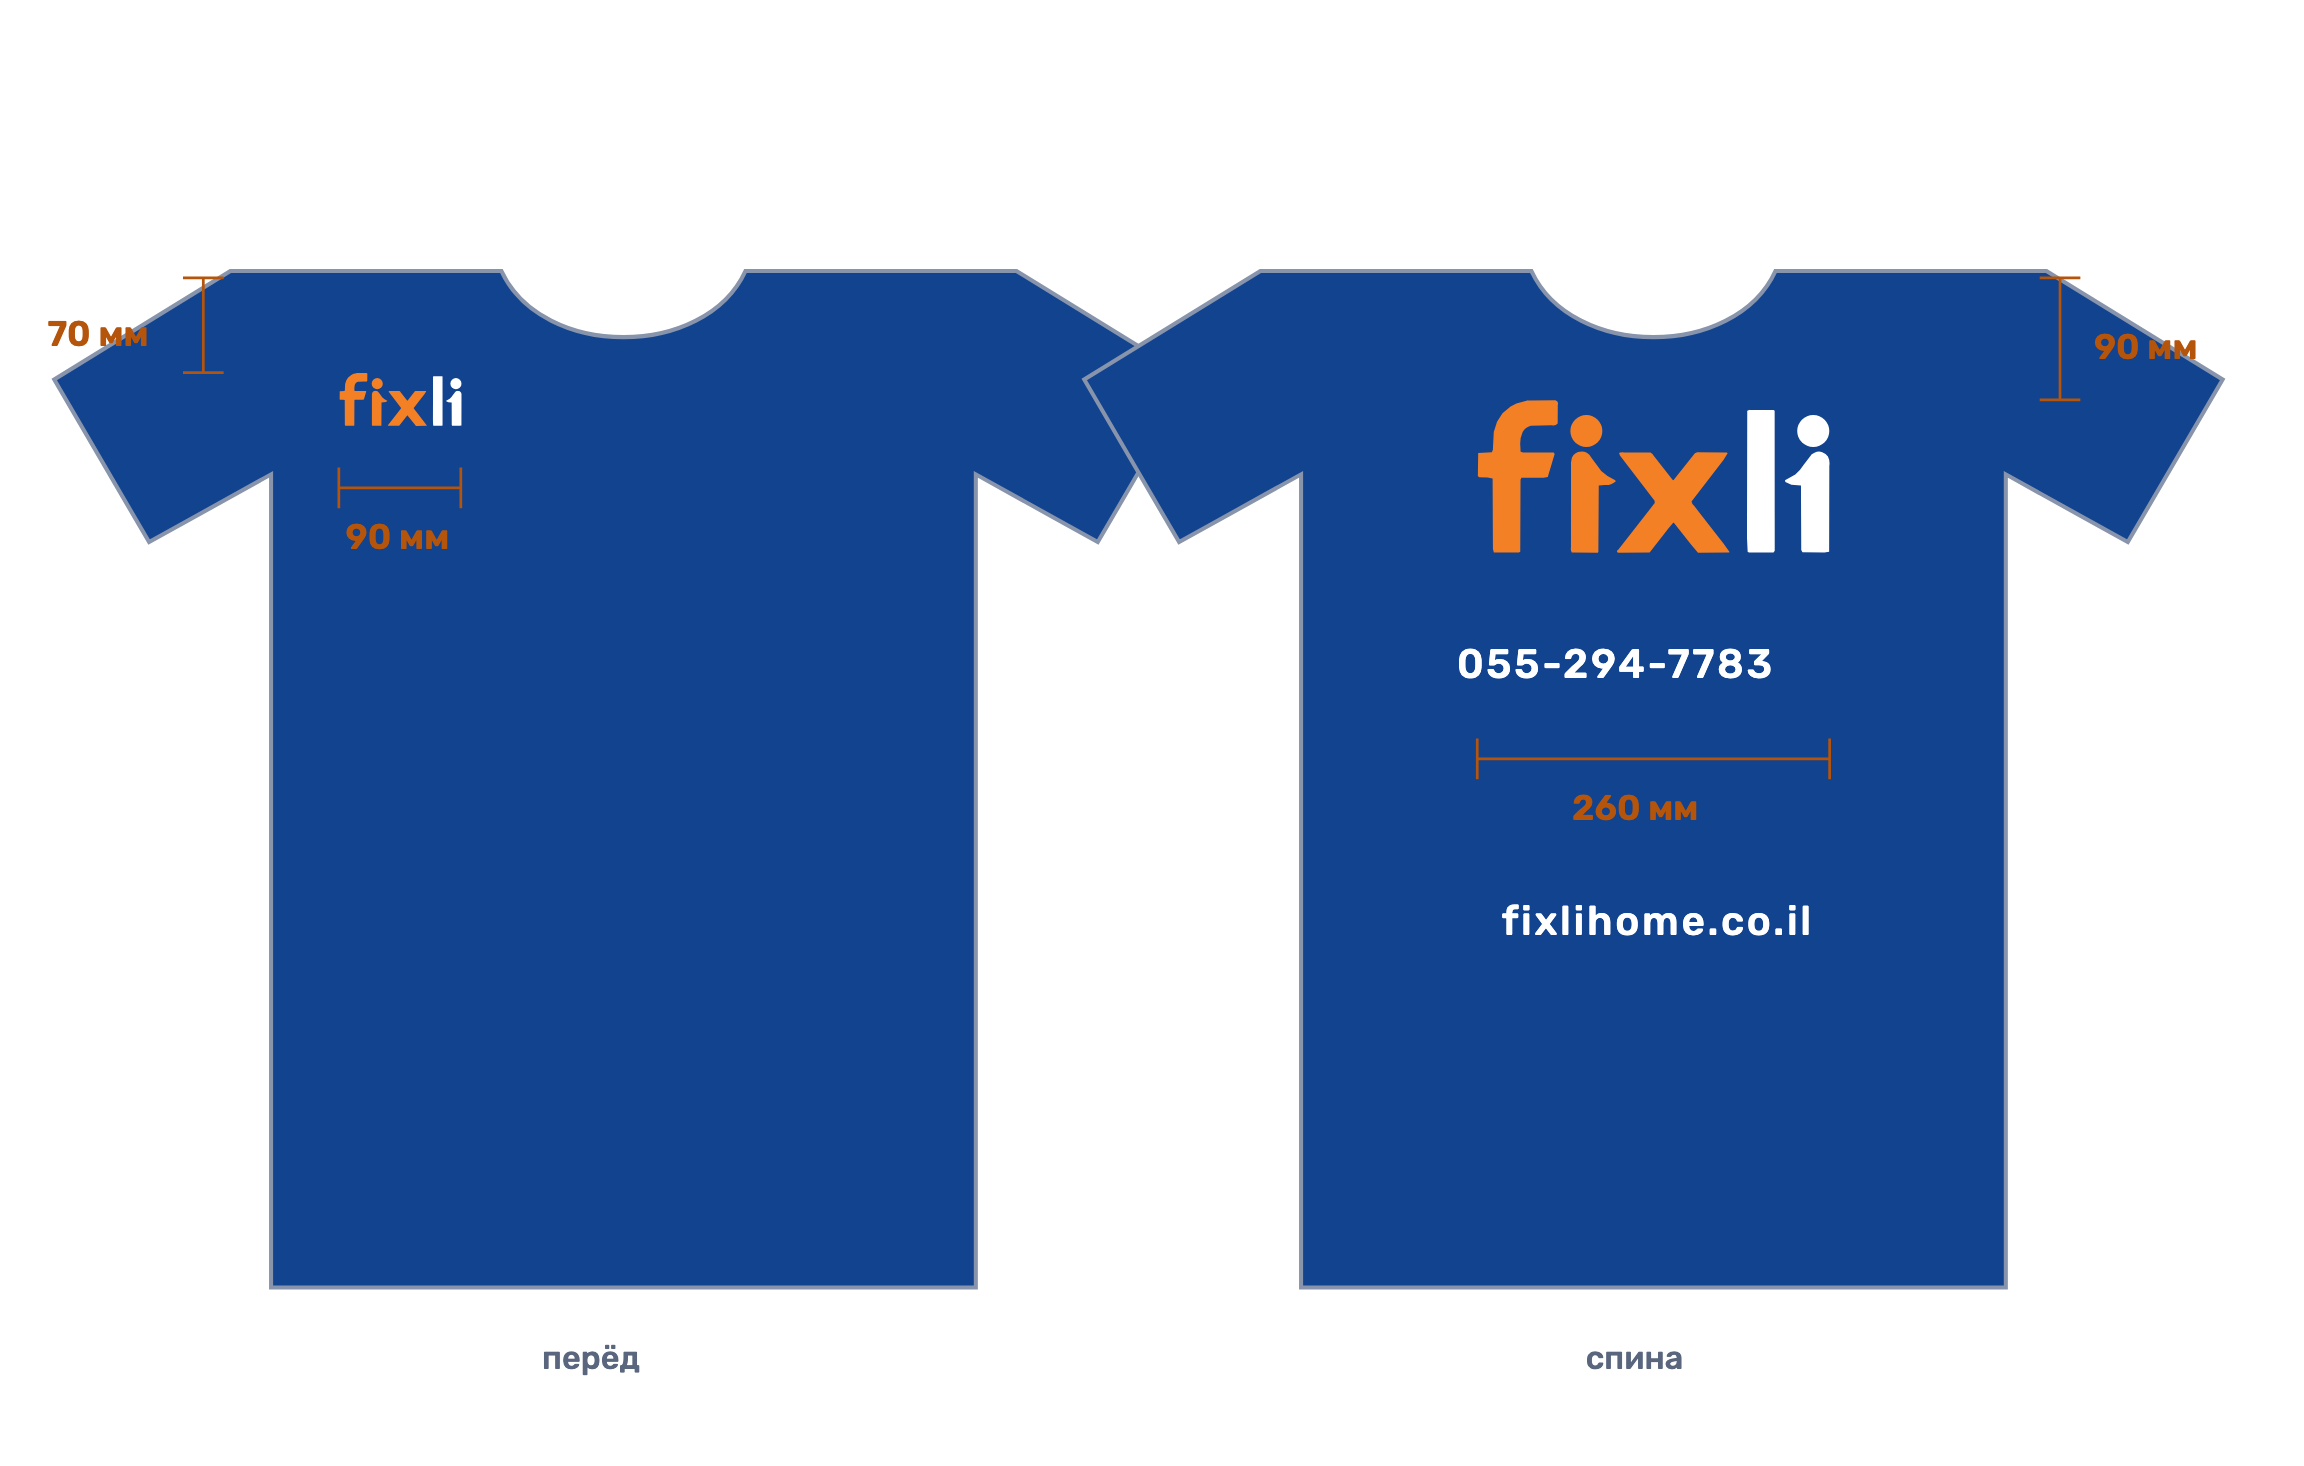
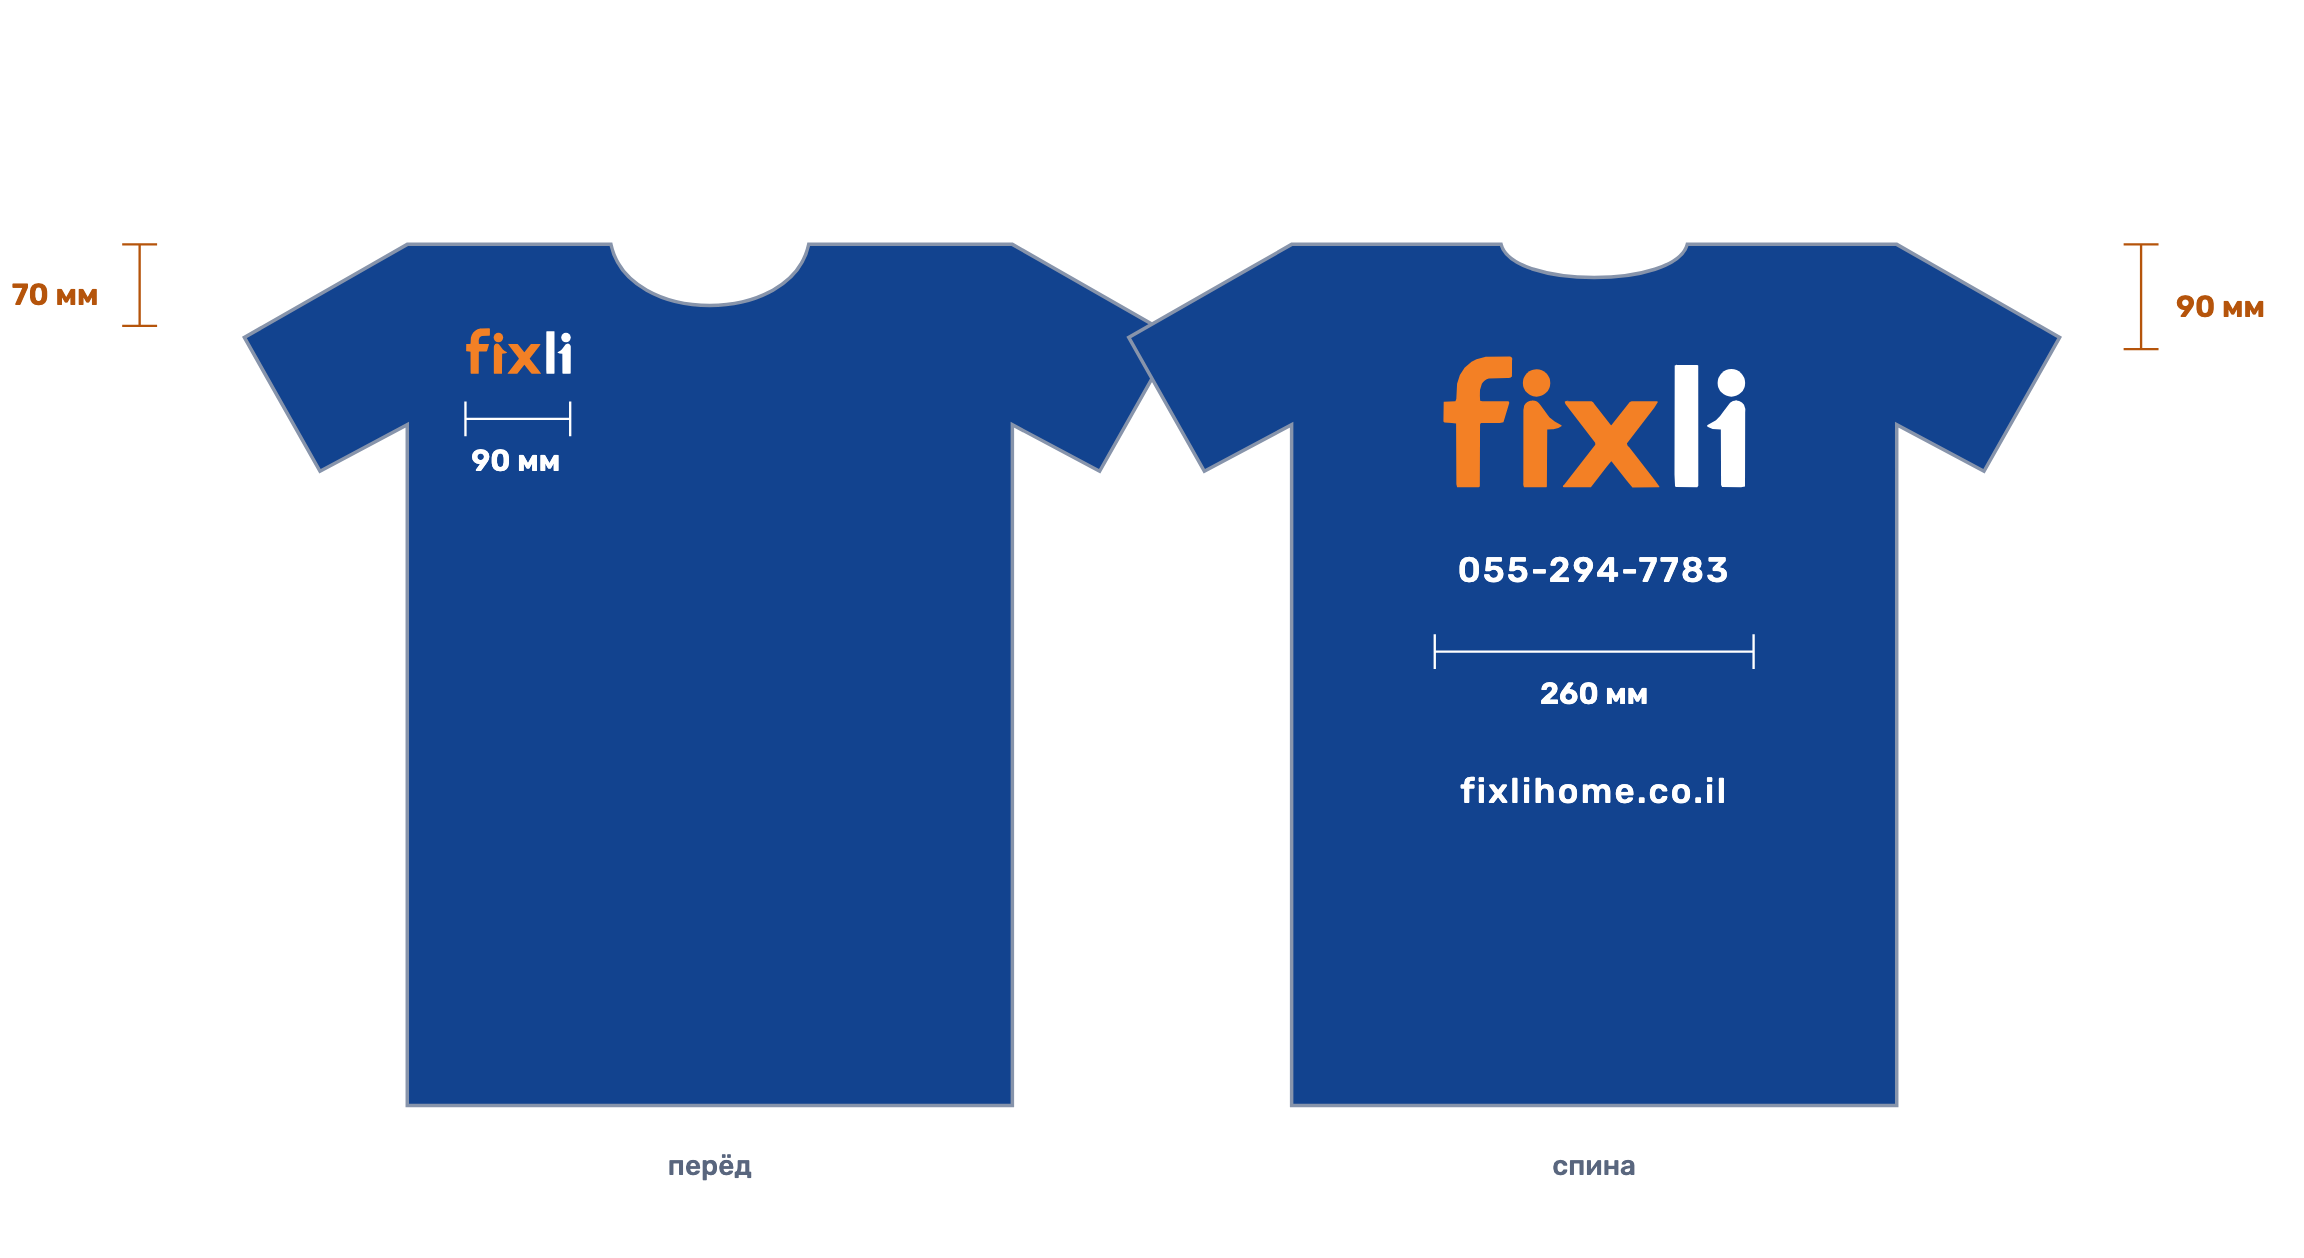
Брендбук: чертёж футболки с выправленной центровкой

diff --git a/brand/kit/transport/схемы.html b/brand/kit/transport/схемы.html
@@ -377,35 +377,39 @@
 
       <div class="чертёж" data-имя="футболка">
         <!-- Масштаб 1 единица = 1 мм: футболка размера L, ширина груди 520, длина 750 -->
-        <svg viewBox="0 0 1700 1080" role="img"
+        <svg viewBox="-150 0 1980 1080" role="img"
              aria-label="Футболка: слева перёд со знаком на левой половине груди, справа спина с крупным знаком и телефоном под ним">
           <title>Нанесение на футболку</title>
 
           <path class="ткань"
-                d="M170 200 L40 280 L110 400 L200 350 L200 950 L720 950 L720 350 L810 400 L880 280 L750 200 L550 200 C520 265 400 265 370 200 Z" />
-          <text class="подпись подпись--мелко" x="400" y="1010">перёд</text>
-          <image href="../../знак/fixli-знак-выворотка.svg" x="248" y="273" width="95" height="43" data-знак="90" />
-          <path class="размер" d="M250 360 L340 360 M250 345 L250 375 M340 345 L340 375" />
-          <text class="подпись подпись--размер" x="255" y="405">90 мм</text>
-          <path class="размер" d="M150 205 L150 275 M135 205 L165 205 M135 275 L165 275" />
-          <text class="подпись подпись--размер" x="35" y="255">70 мм</text>
+                d="M200 210 L60 290 L125 405 L200 365 L200 950 L720 950 L720 365 L795 405 L860 290 L720 210 L545 210 C530 280 390 280 375 210 Z" />
+          <text class="подпись подпись--мелко" x="460" y="1010" text-anchor="middle">перёд</text>
+          <image href="../../знак/fixli-знак-выворотка.svg" x="248" y="280" width="95" height="43" data-знак="90" />
+          <path class="размер размер--выворотка" d="M250 360 L340 360 M250 345 L250 375 M340 345 L340 375" />
+          <text class="подпись подпись--размер подпись--размер-выворотка" x="255" y="405">90 мм</text>
+          <path class="размер" d="M-30 210 L-30 280 M-45 210 L-15 210 M-45 280 L-15 280" />
+          <text class="подпись подпись--размер" x="-140" y="262">70 мм</text>
 
           <path class="ткань"
-                d="M930 200 L800 280 L870 400 L960 350 L960 950 L1480 950 L1480 350 L1570 400 L1640 280 L1510 200 L1310 200 C1280 265 1160 265 1130 200 Z" />
-          <text class="подпись подпись--мелко" x="1170" y="1010">спина</text>
-          <image href="../../знак/fixli-знак-выворотка.svg" x="1083" y="289" width="274" height="124" data-знак="260" />
+                d="M960 210 L820 290 L885 405 L960 365 L960 950 L1480 950 L1480 365 L1555 405 L1620 290 L1480 210 L1300 210 C1290 248 1150 248 1140 210 Z" />
+          <text class="подпись подпись--мелко" x="1220" y="1010" text-anchor="middle">спина</text>
+          <image href="../../знак/fixli-знак-выворотка.svg" x="1083" y="300" width="274" height="124" data-знак="260" />
           <g data-обещание="связь.телефон">
-            <text class="подпись подпись--выворотка" x="1075" y="500" letter-spacing="2">055-294-7783</text>
+            <text class="подпись подпись--выворотка" x="1220" y="500" text-anchor="middle"
+                  letter-spacing="2">055-294-7783</text>
           </g>
-          <path class="размер" d="M1090 560 L1350 560 M1090 545 L1090 575 M1350 545 L1350 575" />
-          <text class="подпись подпись--размер" x="1160" y="605">260 мм</text>
+          <!-- Выноска показывает ширину знака, поэтому её концы стоят на его
+               кромках (1083 и 1357), а не «примерно там же»: чертёж читает
+               подрядчик, и разница в 7 мм на каждую сторону — это его допуск. -->
+          <path class="размер размер--выворотка" d="M1083 560 L1357 560 M1083 545 L1083 575 M1357 545 L1357 575" />
+          <text class="подпись подпись--размер подпись--размер-выворотка" x="1220" y="605" text-anchor="middle">260 мм</text>
           <!-- Адрес сайта на спине, под номером: спину бригады читают в подъезде
                и во дворе, где машины не видно. Выноска размера знака стоит между
                ними, поэтому адрес отодвинут ниже — это чертёж, а не макет. -->
-          <text class="подпись подпись--выворотка" x="1108" y="690" data-обещание="связь.сайт"
-                letter-spacing="2">fixlihome.co.il</text>
-          <path class="размер" d="M1520 205 L1520 295 M1505 205 L1535 205 M1505 295 L1535 295" />
-          <text class="подпись подпись--размер" x="1545" y="265">90 мм</text>
+          <text class="подпись подпись--выворотка" x="1220" y="690" text-anchor="middle"
+                data-обещание="связь.сайт" letter-spacing="2">fixlihome.co.il</text>
+          <path class="размер" d="M1690 210 L1690 300 M1675 210 L1705 210 M1675 300 L1705 300" />
+          <text class="подпись подпись--размер" x="1720" y="272">90 мм</text>
         </svg>
         <p class="чертёж__подпись">
           Перёд — знак 90 мм по ширине, верх на 70 мм ниже плечевого шва, выключка по левой половине

diff --git a/brand/kit/transport/схемы.css b/brand/kit/transport/схемы.css
@@ -227,6 +227,13 @@ code {
   fill: var(--fx-white);
 }
 
+/* Выноска, идущая по ткани, а не по белому полю листа. Оранжевый текст на
+   тёмно-синем даёт 1,90 при пороге 4,5 — он там просто не читается; выворотка
+   даёт 9,44. Снаружи ткани оранжевый остаётся: на белом он верен (4,96), и
+   разноцветные выноски на одном чертеже путали бы сильнее, чем помогали. */
+.размер--выворотка { stroke: var(--fx-white); }
+.подпись--размер-выворотка { fill: var(--fx-white); }
+
 /* Текст, который реально нанесён на носитель, — фирменным синим и жирным.
    Отдельный класс, а не атрибут fill: в атрибуте var() резолвится не везде, а
    собрать.mjs сверяет цвет каждого слоя с его токеном. */

diff --git a/brand/kit/transport/README.md b/brand/kit/transport/README.md
@@ -93,6 +93,34 @@ python3 scripts/бренд-замер-оклейки.py
    отнимает читаемость у номера; передок вообще без контактной строки. Оба носителя
    видят с двух метров, а не из проезжающей машины: там работает знак, а не адрес.
 
+## Грабля центровки: `x` — это левый край, а не середина
+
+**Нашли глаза Дмитрия 2026-09-01, замер назвал величину.** На спине футболки телефон стоял
+на **27,7 мм левее центра корпуса** при знаке и адресе по центру — и подпись под чертежом
+рядом обещала «по центру». Подрядчик шьёт по картинке, а не по абзацу.
+
+Причина не в числе, а в выключке: у `<text>` в SVG выключка по умолчанию `start`, то есть
+`x` задаёт **левый край строки**. Центр приходилось считать через ширину строки — а она
+зависит от шрифта, кегля и межбуквенного расстояния, поэтому её прикидывали на глаз.
+Достаточно поменять номер телефона, чтобы блок уехал снова.
+
+**Лечится не координатой, а `text-anchor="middle"`:** тогда `x` означает центр, и ширина
+строки перестаёт участвовать вовсе. Сторож (правило 9) меряет **отрисованные** центры знака,
+телефона, адреса и выноски против центра корпуса с допуском 2 мм — обе диверсии («телефон
+снова от левого края», «адрес уехал на 20 мм») его роняют.
+
+**Тем же заходом закрыты ещё две вещи, которых не показывал ни один замер:**
+
+- **выноски лежали на ткани** — оранжевый `#b5540b` по тёмно-синему даёт **1,90** при пороге
+  4,5, то есть размер на чертеже физически не читался. Снаружи ткани оранжевый верен (4,96
+  на белом), поэтому лечится вторым классом, а не сменой токена: `размер--выворотка` и
+  `подпись--размер-выворотка` дают 9,44. Оба класса добавлены в список слоёв сборщика —
+  класс, которого там нет, не охраняется вовсе;
+- **силуэт**: плечевая линия шла от 200 при вырезе горловины глубже плеча, и на снимке это
+  читалось рогами. Форма приведена к обычной футболке, **все привязки пересчитаны от новой
+  плечевой линии** (210), а не подогнаны на глаз: «70 мм ниже плечевого шва» и «90 мм ниже
+  воротника» — числа из таблицы ТЗ, и чертёж обязан показывать именно их.
+
 ## Что проверяет `собрать.mjs`
 
 Двенадцать правил. Первые четыре — общие для носителей бренда (литерал цвета, физическое
